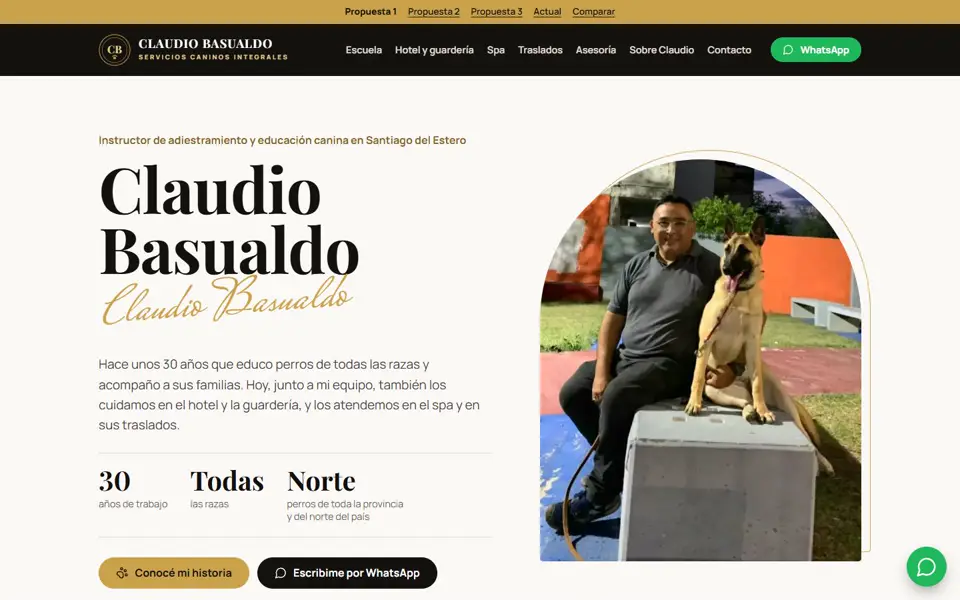
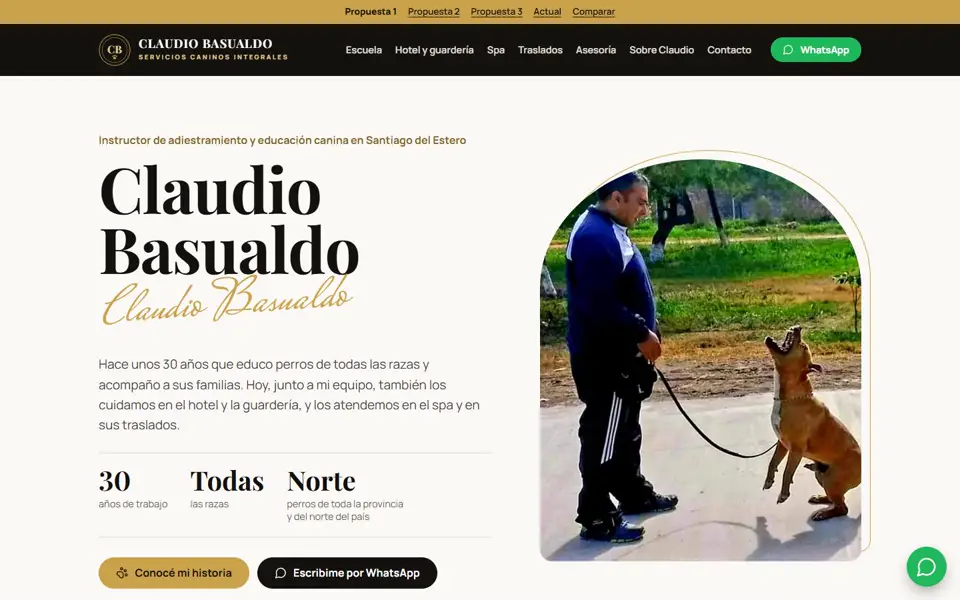
Portada con Claudio parado y el perro que salta; la presentación queda con el labrador
Pedido de José: reemplazar la foto de Claudio sentado con el Malinois por la de él parado
con el perro que abre la boca hacia arriba, en la versión actual y en las 3 propuestas.
"Hola, soy Claudio" queda solo con la foto del labrador.
- Propuesta 1: el arco se suaviza arriba para no cortarle la cabeza.
- Propuesta 2: en compu la foto va nítida a la derecha sobre la misma foto desenfocada.
- Propuesta 3: el hito "Desde joven" pasa a otra foto para no repetir la de la portada.

Changed region(s): [[0.5625, 0.24, 0.9062, 0.96]]

diff --git a/propuesta-2.html b/propuesta-2.html
@@ -87,7 +87,7 @@
 <main>
 
 <section class="cine" aria-label="Presentación">
-  <div class="cine-foto"><img src="img/claudio-basualdo-malinois-960.webp" srcset="img/claudio-basualdo-malinois-480.webp 480w, img/claudio-basualdo-malinois-960.webp 960w, img/claudio-basualdo-malinois-1600.webp 1600w" sizes="100vw" alt="Claudio Basualdo, instructor de adiestramiento y educación canina, con un Malinois" loading="eager" decoding="async" fetchpriority="high" style="object-position:35% 2%"></div>
+  <div class="cine-foto"><img class="fondo" src="img/claudio-entrenando-480.webp" alt="" aria-hidden="true" decoding="async"><img class="nitida" src="img/claudio-entrenando-960.webp" srcset="img/claudio-entrenando-480.webp 480w, img/claudio-entrenando-960.webp 960w, img/claudio-entrenando-1600.webp 1600w" sizes="(max-width: 980px) 100vw, 62vw" alt="Claudio Basualdo, instructor de adiestramiento y educación canina, durante un entrenamiento" loading="eager" decoding="async" fetchpriority="high" style="object-position:30% 6%"></div>
   <div class="contenedor cine-texto">
     <p class="lugar">Instructor de adiestramiento y educación canina en Santiago del Estero</p>
     <h1 class="cine-nombre">Claudio Basualdo</h1>
@@ -101,10 +101,10 @@
 
 <section class="seccion suave historia" id="claudio" data-capitulos aria-label="La historia de Claudio">
   <div class="contenedor historia-grid">
-    <div class="historia-fotos" aria-hidden="true"><figure data-n="1" class="activa"><img src="img/claudio-labrador-960.webp" srcset="img/claudio-labrador-480.webp 480w, img/claudio-labrador-960.webp 960w" sizes="(max-width: 980px) 100vw, 520px" alt="Claudio Basualdo durante una clase con un labrador" loading="lazy" decoding="async" style="object-position:center 42%"><span class="chica"><img src="img/claudio-entrenando-960.webp" srcset="img/claudio-entrenando-480.webp 480w, img/claudio-entrenando-960.webp 960w" sizes="(max-width: 980px) 40vw, 220px" alt="Claudio Basualdo entrenando a un perro" loading="lazy" decoding="async" style="object-position:center 40%"></span></figure><figure data-n="2"><img src="img/claudio-diploma-960.webp" srcset="img/claudio-diploma-480.webp 480w, img/claudio-diploma-960.webp 960w" sizes="(max-width: 980px) 100vw, 520px" alt="Claudio Basualdo con un diploma, junto a colegas" loading="lazy" decoding="async" style="object-position:55% center"></figure><figure data-n="3"><img src="img/guarderia-kiara-claudio-960.webp" srcset="img/guarderia-kiara-claudio-480.webp 480w, img/guarderia-kiara-claudio-960.webp 960w, img/guarderia-kiara-claudio-1600.webp 1600w" sizes="(max-width: 980px) 100vw, 520px" alt="Claudio con Kiara en el predio" loading="lazy" decoding="async" style="object-position:0% center"></figure><figure data-n="4"><img src="img/claudio-basualdo-960.webp" srcset="img/claudio-basualdo-480.webp 480w, img/claudio-basualdo-960.webp 960w" sizes="(max-width: 980px) 100vw, 520px" alt="Claudio Basualdo con uno de sus alumnos" loading="lazy" decoding="async" style="object-position:center 10%"></figure><ol class="puntos"><li data-n="1" class="activo"></li><li data-n="2"></li><li data-n="3"></li><li data-n="4"></li></ol></div>
+    <div class="historia-fotos" aria-hidden="true"><figure data-n="1" class="activa"><img src="img/claudio-labrador-960.webp" srcset="img/claudio-labrador-480.webp 480w, img/claudio-labrador-960.webp 960w" sizes="(max-width: 980px) 100vw, 520px" alt="Claudio Basualdo durante una clase con un labrador" loading="lazy" decoding="async" style="object-position:center 42%"></figure><figure data-n="2"><img src="img/claudio-diploma-960.webp" srcset="img/claudio-diploma-480.webp 480w, img/claudio-diploma-960.webp 960w" sizes="(max-width: 980px) 100vw, 520px" alt="Claudio Basualdo con un diploma, junto a colegas" loading="lazy" decoding="async" style="object-position:55% center"></figure><figure data-n="3"><img src="img/guarderia-kiara-claudio-960.webp" srcset="img/guarderia-kiara-claudio-480.webp 480w, img/guarderia-kiara-claudio-960.webp 960w, img/guarderia-kiara-claudio-1600.webp 1600w" sizes="(max-width: 980px) 100vw, 520px" alt="Claudio con Kiara en el predio" loading="lazy" decoding="async" style="object-position:0% center"></figure><figure data-n="4"><img src="img/claudio-basualdo-960.webp" srcset="img/claudio-basualdo-480.webp 480w, img/claudio-basualdo-960.webp 960w" sizes="(max-width: 980px) 100vw, 520px" alt="Claudio Basualdo con uno de sus alumnos" loading="lazy" decoding="async" style="object-position:center 10%"></figure><ol class="puntos"><li data-n="1" class="activo"></li><li data-n="2"></li><li data-n="3"></li><li data-n="4"></li></ol></div>
     <div class="historia-textos">
       <article data-n="1">
-        <figure class="solo-celu"><img src="img/claudio-labrador-960.webp" srcset="img/claudio-labrador-480.webp 480w, img/claudio-labrador-960.webp 960w" sizes="100vw" alt="Claudio Basualdo durante una clase con un labrador" loading="lazy" decoding="async" style="object-position:center 42%"><span class="chica"><img src="img/claudio-entrenando-960.webp" srcset="img/claudio-entrenando-480.webp 480w, img/claudio-entrenando-960.webp 960w" sizes="(max-width: 980px) 40vw, 220px" alt="Claudio Basualdo entrenando a un perro" loading="lazy" decoding="async" style="object-position:center 40%"></span></figure>
+        <figure class="solo-celu"><img src="img/claudio-labrador-960.webp" srcset="img/claudio-labrador-480.webp 480w, img/claudio-labrador-960.webp 960w" sizes="100vw" alt="Claudio Basualdo durante una clase con un labrador" loading="lazy" decoding="async" style="object-position:center 42%"></figure>
         <p class="cap-num">01</p>
         <h2>Hola, soy Claudio</h2>
         <p class="oficio">Instructor de adiestramiento y educación canina. Trabajo con perros de todas las razas.</p><p>Desde muy joven sentí vocación y cariño por los perros, y con el tiempo eso se transformó en mi oficio.</p>

diff --git a/css/estilos.css b/css/estilos.css
@@ -119,11 +119,9 @@ p,li{text-wrap:pretty}
 .cita{font-family:var(--titulo);font-size:clamp(22px,2vw,27px);line-height:1.38;color:var(--carbon);border-left:3px solid var(--oro);padding:2px 0 2px 24px;margin:30px 0 0}
 .cita footer{font-family:var(--cuerpo);font-size:15px;color:var(--oro-texto);font-weight:700;margin-top:12px}
 .sobre-claudio{align-items:start}
-/* 19/11: dos fotos que eligió Claudio, una grande y otra chica encima */
+/* 19/11: la foto del labrador que eligió Claudio (la otra pasó a la portada) */
 .retratos{position:relative}
-.sobre-claudio .retratos{position:sticky;top:110px;padding-bottom:56px}
-.retrato-chico{position:absolute;right:-22px;bottom:0;width:46%;aspect-ratio:4/5;margin:0;border-radius:var(--radio);overflow:hidden;border:6px solid var(--monte-claro);box-shadow:0 14px 30px rgba(20,18,14,.18);background:#DCD7CB}
-.retrato-chico img{width:100%;height:100%;object-fit:cover}
+.sobre-claudio .retratos{position:sticky;top:110px}
 .texto-largo .oficio{font-size:17px;font-weight:700;color:var(--oro-texto);margin:-10px 0 22px}
 .compromiso{margin:26px 0 0;padding:22px 26px;background:#fff;border-radius:var(--radio);max-width:62ch}
 .compromiso h3{font-size:22px;margin-bottom:8px;color:var(--carbon)}
@@ -331,9 +329,8 @@ p,li{text-wrap:pretty}
   .mosaico{grid-template-columns:repeat(2,1fr);grid-template-rows:none;grid-auto-rows:240px}
   .p-escuela,.p-guarderia{grid-column:span 2;grid-row:span 1;min-height:300px}
   .p-traslados,.p-spa,.p-asesoria,.p-accesorios{grid-column:span 1;grid-row:span 1}
-  .sobre-claudio .retratos{position:relative;top:auto;padding-bottom:44px}
+  .sobre-claudio .retratos{position:relative;top:auto}
   .sobre-claudio .retrato{aspect-ratio:4/3.4}
-  .retrato-chico{right:0;width:40%}
   .familias{grid-template-columns:repeat(2,1fr)}
   .galeria{grid-template-columns:repeat(2,1fr);grid-auto-rows:180px}
   .alumnos{grid-template-columns:repeat(2,minmax(0,1fr))}
@@ -406,8 +403,8 @@ p,li{text-wrap:pretty}
 .carta-datos b{font-family:var(--titulo);font-size:40px;line-height:1;color:var(--carbon)}
 .carta-datos li > span{font-size:14.5px;color:var(--gris);line-height:1.35;margin-top:6px}
 .arco{position:relative;margin:0;justify-self:center;width:min(100%,500px);aspect-ratio:4/5}
-.arco img{width:100%;height:100%;object-fit:cover;border-radius:999px 999px 18px 18px;position:relative;z-index:1}
-.arco:before{content:'';position:absolute;inset:-14px -14px 14px 14px;border:1.5px solid var(--oro);border-radius:999px 999px 18px 18px}
+.arco img{width:100%;height:100%;object-fit:cover;border-radius:50% 50% 18px 18px / 32% 32% 18px 18px;position:relative;z-index:1}
+.arco:before{content:'';position:absolute;inset:-14px -14px 14px 14px;border:1.5px solid var(--oro);border-radius:50% 50% 18px 18px / 32% 32% 18px 18px}
 @media (prefers-reduced-motion:no-preference){
   .firma{clip-path:inset(-30% 100% -40% -8%);animation:escribir 2.4s cubic-bezier(.55,.1,.35,1) .5s forwards}
   .arco img{animation:acercar 1.6s cubic-bezier(.2,.7,.2,1) both}
@@ -421,6 +418,13 @@ p,li{text-wrap:pretty}
 .cine{position:relative;min-height:max(540px,calc(100svh - 118px));display:flex;align-items:flex-end;color:#fff;background:var(--carbon);overflow:hidden;isolation:isolate}
 .cine-foto{position:absolute;inset:0;z-index:-1}
 .cine-foto img{width:100%;height:100%;object-fit:cover}
+/* 19/11: la foto de la portada es casi cuadrada. En compu va nítida a la derecha y el resto
+   de la pantalla se llena con la misma foto desenfocada; en el celular la ocupa toda. */
+.cine-foto .fondo{display:none}
+@media (min-width:981px){
+  .cine-foto .fondo{display:block;position:absolute;inset:-60px;width:calc(100% + 120px);height:calc(100% + 120px);filter:blur(36px) saturate(1.1) brightness(.5)}
+  .cine-foto .nitida{position:absolute;top:0;right:0;width:62%;-webkit-mask-image:linear-gradient(90deg,transparent 0,#000 30%);mask-image:linear-gradient(90deg,transparent 0,#000 30%)}
+}
 .cine-foto:after{content:'';position:absolute;inset:0;background:linear-gradient(0deg,rgba(14,13,10,.94) 0%,rgba(14,13,10,.55) 40%,rgba(14,13,10,.05) 72%),linear-gradient(90deg,rgba(14,13,10,.5),rgba(14,13,10,0) 55%)}
 .cine-texto{width:100%;padding-top:120px;padding-bottom:clamp(40px,7vh,80px)}
 .cine-nombre{color:#fff;font-size:clamp(56px,8.4vw,136px);line-height:.92;letter-spacing:-.02em;margin:12px 0 18px;max-width:11ch}

diff --git a/propuesta-3.html b/propuesta-3.html
@@ -88,7 +88,7 @@
 <main>
 
 <section class="revista" aria-label="Presentación"><div class="contenedor revista-grid">
-  <figure class="revista-foto"><img src="img/claudio-basualdo-malinois-960.webp" srcset="img/claudio-basualdo-malinois-480.webp 480w, img/claudio-basualdo-malinois-960.webp 960w, img/claudio-basualdo-malinois-1600.webp 1600w" sizes="(max-width: 980px) 100vw, 46vw" alt="Claudio Basualdo, instructor de adiestramiento y educación canina, con un Malinois" loading="eager" decoding="async" fetchpriority="high" style="object-position:center 35%">
+  <figure class="revista-foto"><img src="img/claudio-entrenando-960.webp" srcset="img/claudio-entrenando-480.webp 480w, img/claudio-entrenando-960.webp 960w, img/claudio-entrenando-1600.webp 1600w" sizes="(max-width: 980px) 100vw, 46vw" alt="Claudio Basualdo, instructor de adiestramiento y educación canina, durante un entrenamiento" loading="eager" decoding="async" fetchpriority="high" style="object-position:20% top">
     <figcaption>Santiago del Estero</figcaption></figure>
   <div class="revista-texto">
     <p class="carta-oficio">Instructor de adiestramiento y educación canina</p>
@@ -116,7 +116,7 @@
   <ol class="hitos">
     <li class="hito">
       <span class="cuando">Desde joven</span>
-      <figure><img src="img/claudio-entrenando-960.webp" srcset="img/claudio-entrenando-480.webp 480w, img/claudio-entrenando-960.webp 960w" sizes="(max-width: 600px) 80vw, 340px" alt="La vocación hecha oficio" loading="lazy" decoding="async" style="object-position:center 20%"></figure>
+      <figure><img src="img/claudio-basualdo-960.webp" srcset="img/claudio-basualdo-480.webp 480w, img/claudio-basualdo-960.webp 960w" sizes="(max-width: 600px) 80vw, 340px" alt="La vocación hecha oficio" loading="lazy" decoding="async" style="object-position:center 20%"></figure>
       <h3>La vocación hecha oficio</h3><p>Desde muy joven sintió vocación por los perros y con el tiempo la convirtió en su oficio: unos 30 años con perros de todas las razas.</p>
       
     </li>
@@ -182,7 +182,6 @@
 <section class="seccion suave" id="claudio"><div class="contenedor dos sobre-claudio">
   <div class="retratos">
     <figure class="retrato"><img src="img/claudio-labrador-960.webp" srcset="img/claudio-labrador-480.webp 480w, img/claudio-labrador-960.webp 960w" sizes="(max-width: 980px) 100vw, 560px" alt="Claudio Basualdo durante una clase con un labrador" loading="lazy" decoding="async" style="object-position:center 42%"></figure>
-    <figure class="retrato-chico"><img src="img/claudio-entrenando-960.webp" srcset="img/claudio-entrenando-480.webp 480w, img/claudio-entrenando-960.webp 960w" sizes="(max-width: 980px) 44vw, 260px" alt="Claudio Basualdo entrenando a un perro" loading="lazy" decoding="async" style="object-position:center 40%"></figure>
   </div>
   <div class="texto-largo">
     <h2>Hola, soy Claudio</h2>

diff --git a/index.html b/index.html
@@ -98,7 +98,7 @@
       <a class="btn btn-linea" href="https://wa.me/5493855854222?text=Hola%2C%20Claudio.%20Te%20escribo%20desde%20tu%20p%C3%A1gina." target="_blank" rel="noopener"><svg class="ic" aria-hidden="true"><use href="#i-message-circle"/></svg>Escribime por WhatsApp</a>
     </div>
   </div>
-  <div class="fotos"><img class="activa" src="img/claudio-basualdo-malinois-960.webp" srcset="img/claudio-basualdo-malinois-480.webp 480w, img/claudio-basualdo-malinois-960.webp 960w, img/claudio-basualdo-malinois-1600.webp 1600w" sizes="(max-width: 980px) 100vw, 50vw" alt="Claudio Basualdo, instructor de adiestramiento y educación canina, con un Malinois" loading="eager" decoding="async" fetchpriority="high" style="object-position:center 40%">
+  <div class="fotos"><img class="activa" src="img/claudio-entrenando-960.webp" srcset="img/claudio-entrenando-480.webp 480w, img/claudio-entrenando-960.webp 960w, img/claudio-entrenando-1600.webp 1600w" sizes="(max-width: 980px) 100vw, 50vw" alt="Claudio Basualdo, instructor de adiestramiento y educación canina, durante un entrenamiento" loading="eager" decoding="async" fetchpriority="high" style="object-position:40% top">
     <button class="pausa" type="button" aria-label="Detener la animación" hidden><svg class="ic" aria-hidden="true"><use href="#i-pause"/></svg></button>
   </div>
 </section>
@@ -134,7 +134,6 @@
 <section class="seccion suave" id="claudio"><div class="contenedor dos sobre-claudio">
   <div class="retratos">
     <figure class="retrato"><img src="img/claudio-labrador-960.webp" srcset="img/claudio-labrador-480.webp 480w, img/claudio-labrador-960.webp 960w" sizes="(max-width: 980px) 100vw, 560px" alt="Claudio Basualdo durante una clase con un labrador" loading="lazy" decoding="async" style="object-position:center 42%"></figure>
-    <figure class="retrato-chico"><img src="img/claudio-entrenando-960.webp" srcset="img/claudio-entrenando-480.webp 480w, img/claudio-entrenando-960.webp 960w" sizes="(max-width: 980px) 44vw, 260px" alt="Claudio Basualdo entrenando a un perro" loading="lazy" decoding="async" style="object-position:center 40%"></figure>
   </div>
   <div class="texto-largo">
     <h2>Hola, soy Claudio</h2>

diff --git a/propuesta-1.html b/propuesta-1.html
@@ -103,7 +103,7 @@
       <a class="btn btn-oscuro" href="https://wa.me/5493855854222?text=Hola%2C%20Claudio.%20Te%20escribo%20desde%20tu%20p%C3%A1gina." target="_blank" rel="noopener"><svg class="ic" aria-hidden="true"><use href="#i-message-circle"/></svg>Escribime por WhatsApp</a>
     </div>
   </div>
-  <figure class="arco"><img src="img/claudio-basualdo-malinois-960.webp" srcset="img/claudio-basualdo-malinois-480.webp 480w, img/claudio-basualdo-malinois-960.webp 960w, img/claudio-basualdo-malinois-1600.webp 1600w" sizes="(max-width: 980px) 86vw, 500px" alt="Claudio Basualdo, instructor de adiestramiento y educación canina, con un Malinois" loading="eager" decoding="async" fetchpriority="high" style="object-position:center 35%"></figure>
+  <figure class="arco"><img src="img/claudio-entrenando-960.webp" srcset="img/claudio-entrenando-480.webp 480w, img/claudio-entrenando-960.webp 960w, img/claudio-entrenando-1600.webp 1600w" sizes="(max-width: 980px) 86vw, 500px" alt="Claudio Basualdo, instructor de adiestramiento y educación canina, durante un entrenamiento" loading="eager" decoding="async" fetchpriority="high" style="object-position:0% top"></figure>
 </div></section>
 <div class="confianza"><div class="contenedor"><ul>
   <li><svg class="ic" aria-hidden="true"><use href="#i-stethoscope"/></svg>Veterinario las 24 horas</li>
@@ -137,7 +137,6 @@
 <section class="seccion suave" id="claudio"><div class="contenedor dos sobre-claudio">
   <div class="retratos">
     <figure class="retrato"><img src="img/claudio-labrador-960.webp" srcset="img/claudio-labrador-480.webp 480w, img/claudio-labrador-960.webp 960w" sizes="(max-width: 980px) 100vw, 560px" alt="Claudio Basualdo durante una clase con un labrador" loading="lazy" decoding="async" style="object-position:center 42%"></figure>
-    <figure class="retrato-chico"><img src="img/claudio-entrenando-960.webp" srcset="img/claudio-entrenando-480.webp 480w, img/claudio-entrenando-960.webp 960w" sizes="(max-width: 980px) 44vw, 260px" alt="Claudio Basualdo entrenando a un perro" loading="lazy" decoding="async" style="object-position:center 40%"></figure>
   </div>
   <div class="texto-largo">
     <h2>Hola, soy Claudio</h2>

diff --git a/propuestas.html b/propuestas.html
@@ -13,7 +13,7 @@
 <meta property="og:site_name" content="Claudio Basualdo · Servicios Caninos Integrales">
 <meta property="og:title" content="Propuestas de portada | Claudio Basualdo">
 <meta property="og:description" content="Tres propuestas de portada para revisar con Claudio.">
-<meta property="og:image" content="https://copidiaz17.github.io/claudio-basualdo/img/og/claudio-basualdo-malinois.jpg">
+<meta property="og:image" content="https://copidiaz17.github.io/claudio-basualdo/img/og/claudio-entrenando.jpg">
 <meta property="og:image:width" content="1200">
 <meta property="og:image:height" content="630">
 <meta name="theme-color" content="#14120E">
